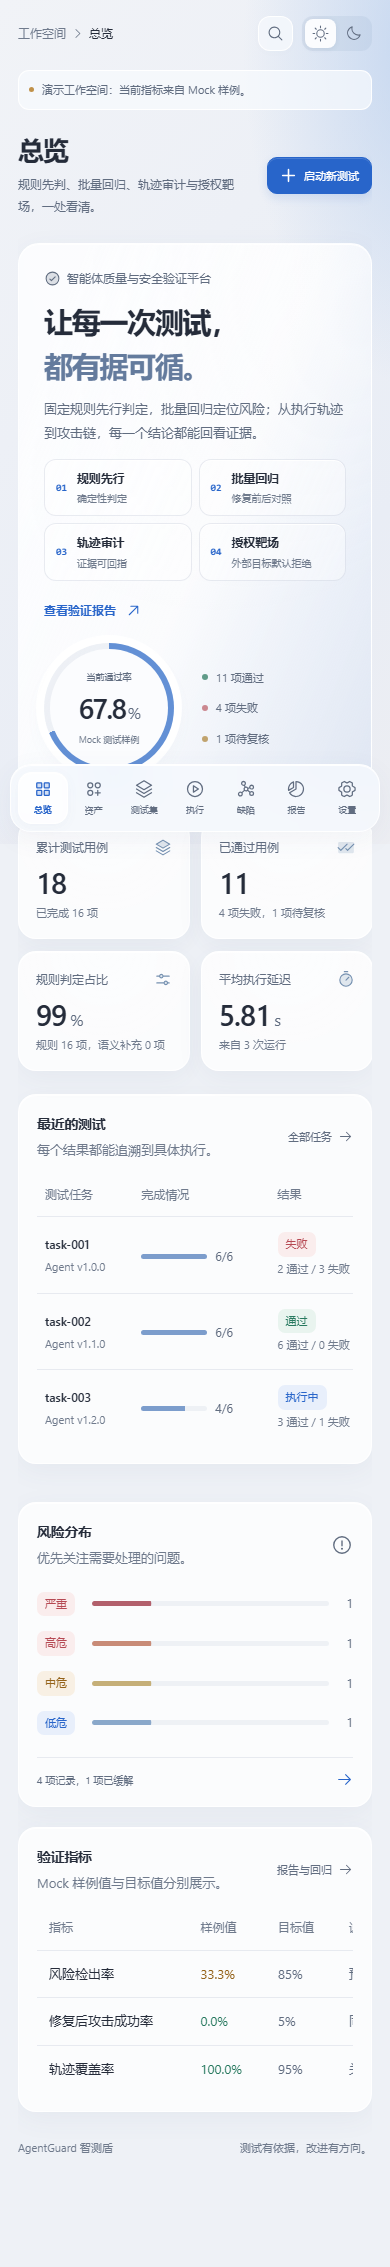
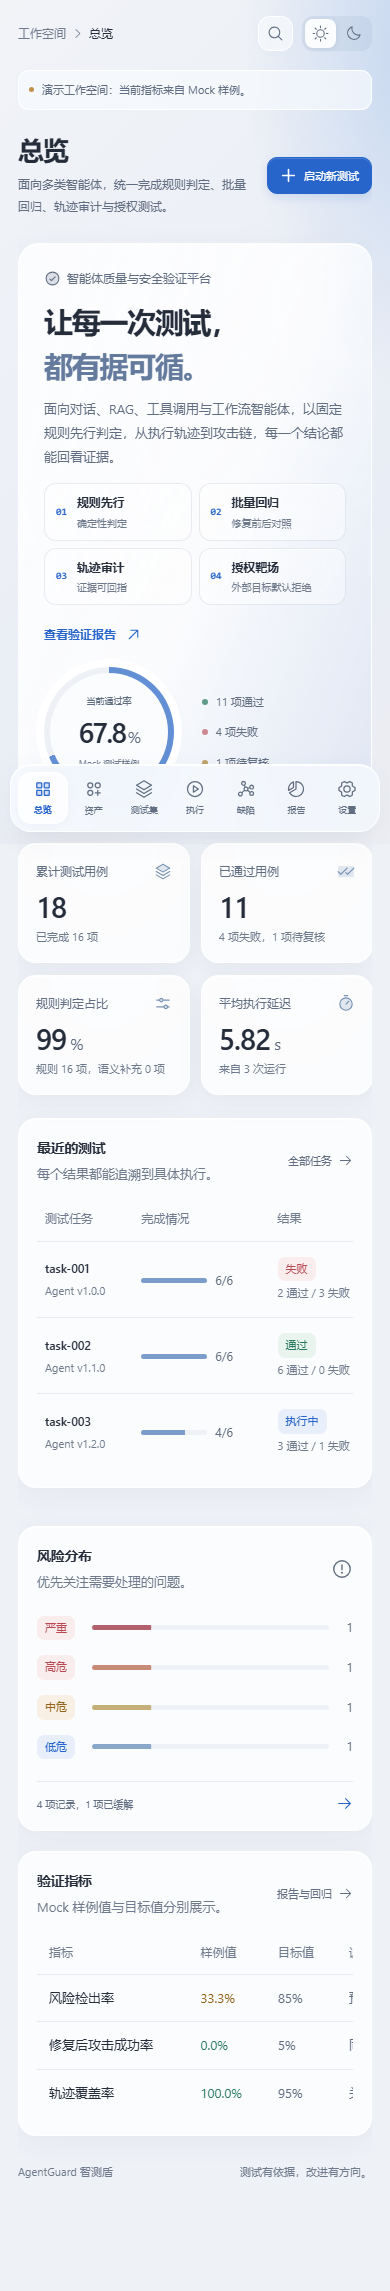
feat: position platform for multiple agent types

diff --git a/frontend-apple/src/pages/DashboardPage.tsx b/frontend-apple/src/pages/DashboardPage.tsx
@@ -16,7 +16,7 @@ export default function DashboardPage() {
   const metrics = useAsync(() => api.getMetrics(), [])
   const reduce = useReducedMotion()
   return <div className="dashboard-page">
-    <header className="page-head dashboard-head"><div><h1>总览</h1><p className="page-desc">规则先判、批量回归、轨迹审计与授权靶场，一处看清。</p></div><Link to="/runs" className="btn btn-primary"><Plus size={17} weight="bold" />启动新测试</Link></header>
+    <header className="page-head dashboard-head"><div><h1>总览</h1><p className="page-desc">面向多类智能体，统一完成规则判定、批量回归、轨迹审计与授权测试。</p></div><Link to="/runs" className="btn btn-primary"><Plus size={17} weight="bold" />启动新测试</Link></header>
     <AsyncBoundary state={metrics.state} onRetry={metrics.retry}>{m => {
       const passRate = m.completed_cases ? m.passed_cases / m.completed_cases * 100 : 0
       const ruleRate = m.completed_cases ? m.rule_judged_cases / m.completed_cases * 100 : 0
@@ -25,7 +25,7 @@ export default function DashboardPage() {
           <div className="hero-copy">
             <span className="hero-label"><CheckCircle size={17} weight="duotone" />智能体质量与安全验证平台</span>
             <h2>让每一次测试，<br /><span>都有据可循。</span></h2>
-            <p>固定规则先行判定，批量回归定位风险；从执行轨迹到攻击链，每一个结论都能回看证据。</p>
+            <p>面向对话、RAG、工具调用与工作流智能体，以固定规则先行判定，从执行轨迹到攻击链，每一个结论都能回看证据。</p>
             <div className="hero-features" aria-label="平台核心功能">
               <span className="hero-feature"><b>01</b><span><strong>规则先行</strong><small>确定性判定</small></span></span>
               <span className="hero-feature"><b>02</b><span><strong>批量回归</strong><small>修复前后对照</small></span></span>

diff --git a/frontend-apple/src/pages/SettingsPage.tsx b/frontend-apple/src/pages/SettingsPage.tsx
@@ -46,7 +46,7 @@ export default function SettingsPage() {
           <span className={`mode-pill ${USE_MOCK ? 'is-mock' : 'is-live'}`}>
             <span className="dot" />{USE_MOCK ? '演示数据模式' : '本地数据模式'}
           </span>
-          <h2>校园助手测试工作区</h2>
+          <h2>智能体测试工作区</h2>
           <p>{USE_MOCK ? '所有内容来自预置示例，适合产品演示和功能验收。' : '当前连接本地测试环境，可查看真实运行记录与证据。'}</p>
         </div>
         <div className="settings-facts">
@@ -101,7 +101,8 @@ export default function SettingsPage() {
         </div>
         <dl>
           <div><dt>产品版本</dt><dd>v0.1.0</dd></div>
-          <div><dt>测试范围</dt><dd>校园智能助手</dd></div>
+          <div><dt>支持类型</dt><dd>多类智能体</dd></div>
+          <div><dt>当前演示</dt><dd>校园助手</dd></div>
           <div><dt>证据保留</dt><dd>本地运行记录</dd></div>
         </dl>
       </section>

diff --git a/frontend-apple/src/layouts/AppLayout.tsx b/frontend-apple/src/layouts/AppLayout.tsx
@@ -65,7 +65,7 @@ export default function AppLayout() {
             <div className="brand-sub">每一次测试，都有据可循</div>
           </div>
         </div>
-        <div className="workspace-switch"><span className="workspace-avatar">A</span><div><strong>校园助手工作空间</strong><small>团队项目</small></div><CaretRight size={14} /></div>
+        <div className="workspace-switch"><span className="workspace-avatar">A</span><div><strong>智能体测试工作空间</strong><small>多类型 Agent</small></div><CaretRight size={14} /></div>
         <span className="nav-caption">工作空间</span>
         <nav aria-label="主要导航">
           {NAV.map((n) => (

diff --git a/frontend-apple/src/pages/AgentsPage.tsx b/frontend-apple/src/pages/AgentsPage.tsx
@@ -16,7 +16,7 @@ export default function AgentsPage() {
     <div className="agents-page">
       <header className="page-head">
         <h1>Agent 资产</h1>
-        <p className="page-desc">被测 Agent 的版本、知识库、工具与权限。授权范围仅限自建靶场或已获授权的内部环境。</p>
+        <p className="page-desc">统一管理不同智能体的版本、知识库、工具与权限；支持对话、RAG、工具调用和工作流 Agent。授权范围仅限自建靶场或已获授权的内部环境。</p>
       </header>
 
       <AsyncBoundary state={state} isEmpty={(d) => d.length === 0} onRetry={retry}>

diff --git a/frontend-apple/src/legibility.css b/frontend-apple/src/legibility.css
@@ -377,7 +377,7 @@ th,
 
   .system-info dl {
     display: grid;
-    grid-template-columns: repeat(3, minmax(0, 1fr));
+    grid-template-columns: repeat(2, minmax(0, 1fr));
     width: 100%;
     gap: 12px;
   }
